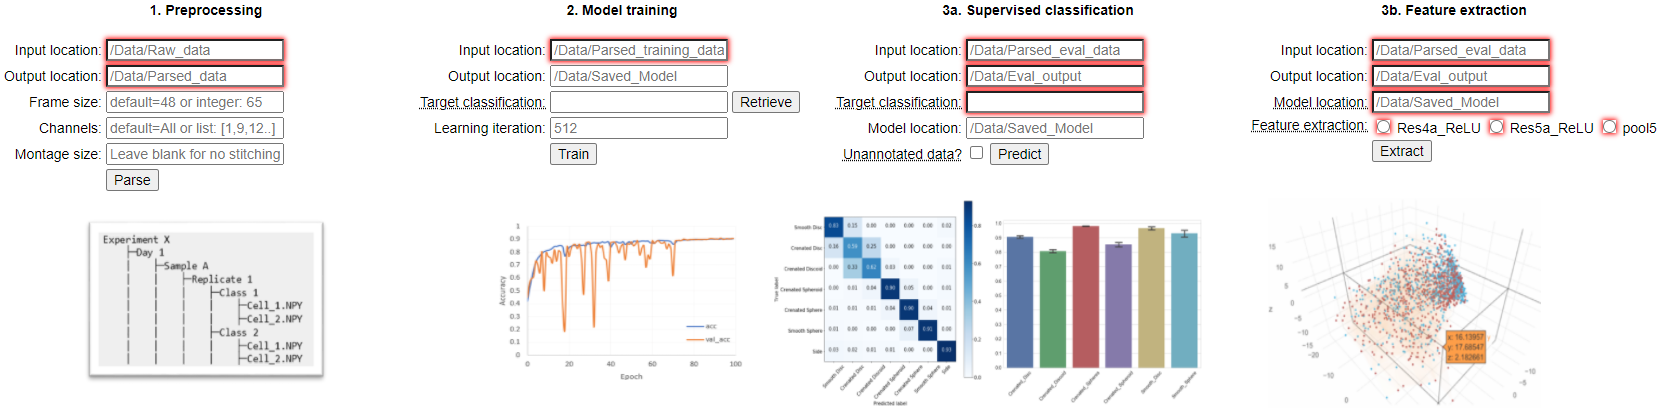
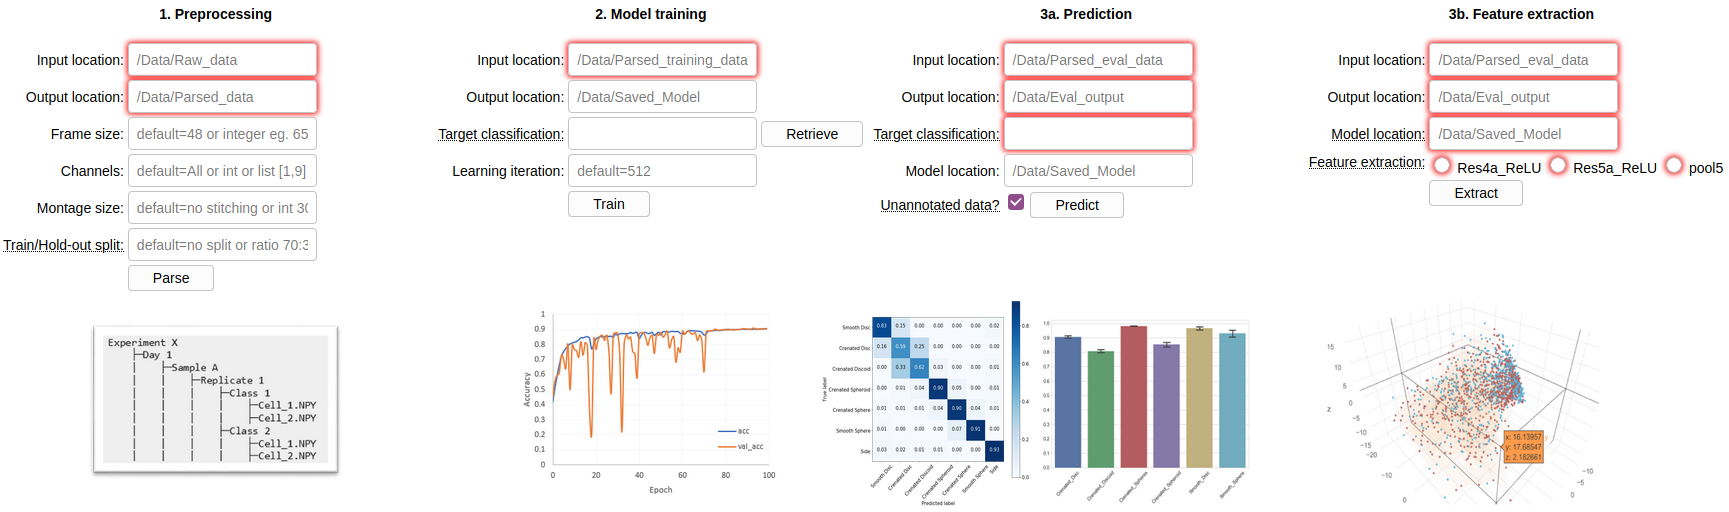
Add Train_Hold-out split in 1.Preprocessing. Add Unannotated data tick box for 3a.Prediction.

diff --git a/templates/Deepometry_GUI.html b/templates/Deepometry_GUI.html
@@ -85,7 +85,7 @@
           </td>
 
           <td align="center">
-            <p><strong>3a. Supervised classification</strong></p>
+            <p><strong>3a. Prediction</strong></p>
           </td>
 
           <td align="center" >
@@ -109,15 +109,19 @@
                 </tr>                 
                 <tr>
                   <td align="right"><label for="frame">Frame size:</label></td>
-                  <td align="left"><abbr title="Set the width/height size of the (width × height × channel) tensor. If user sets a size bigger than the original images, each of the images will be padded with its own background. If user sets a size smaller than the original images, each of the images will be cropped toward its center." aria-label="required"><input type="text" class="form-control" id="frame" name="frame" placeholder="default=48 or integer: 65" pattern="[0-9]*" /></abbr></td>
+                  <td align="left"><abbr title="Set the width/height size of the (width × height × channel) tensor. If user sets a size bigger than the original images, each of the images will be padded with its own background. If user sets a size smaller than the original images, each of the images will be cropped toward its center." aria-label="required"><input type="text" class="form-control" id="frame" name="frame" placeholder="default=48 or integer eg. 65" pattern="[0-9]*" /></abbr></td>
                 </tr>
                 <tr>
                   <td align="right"><label for="channels">Channels:</label></td>
-                  <td align="left"><abbr title="Choose the channel(s) imaged by the instrument (e.g. image flow cytometer, fluorescent microscopy). If a single channel is desired, input an integer without bracket. If multiple channels are desired, use square brackets [ ], e.g. [0,6,3,4]." aria-label="required"><input type="text" class="form-control" id="channels" name="channels" placeholder="default=All or list: [1,9,12..]" /></abbr></td>
+                  <td align="left"><abbr title="Choose the channel(s) imaged by the instrument (e.g. image flow cytometer, fluorescent microscopy). If a single channel is desired, input an integer without bracket. If multiple channels are desired, use square brackets [ ], eg. [0,6,3,4]." aria-label="required"><input type="text" class="form-control" id="channels" name="channels" placeholder="default=All or int or list [1,9]" /></abbr></td>
                 </tr>
                 <tr>
                   <td align="right"><label for="montage_size">Montage size:</label></td>
-                  <td align="left"><abbr title="(Optional) Use this option to generate per-channel tiled (stitched) montages"><input type="text" class="form-control" id="montage_size" name="montage_size" placeholder="Leave blank for no stitching" pattern="[0-9]*" /></abbr></td>
+                  <td align="left"><abbr title="(Optional) Use this option to generate per-channel tiled (stitched) montages"><input type="text" class="form-control" id="montage_size" name="montage_size" placeholder="default=no stitching or int 30" pattern="[0-9]*" /></abbr></td>
+                </tr>
+                <tr>
+                  <td align="right"><abbr title="(Optional) Input a ratio to split the parsed data into Training and Hold-out Cross-Validation subsets. Data will be randomly shuffled before splitting. Training set can be used in 'Step 2. Model Training', and Hold-out set can be used in 'Step 3a. Prediction' to evaluate the model performance."><label for="montage_size">Train/Hold-out split:</label></abbr></td>
+                  <td align="left"><abbr title="(Optional) Input a ratio to split the parsed data into Training and Hold-out Cross-Validation subsets."><input type="text" class="form-control" id="train_test_split" name="train_test_split" placeholder="default=no split or ratio 70:30" pattern="[0-9:]*" /></abbr></td>
                 </tr>
                 <tr>
                   <td>&nbsp;</td>
@@ -144,7 +148,7 @@
                     <abbr title="Target categories to train the classifier, e.g. choose 'Samples' to instruct the model to learn to categorize Sample A, Sample B, Sample C; choose 'Classes' to train the model to distinguish 'Class Control_cells', 'Class Treated_cells' etc..." aria-label="required">Target classification:</abbr>
                   </td>
                   <td align="left">
-                    <abbr title="If this drop-down menu appears empty, retrieve the list of possible targets by specifying input location"><input type="text" id="class_option" name="class_option" list="l1" ></abbr>
+                    <abbr title="If this dropdown menu appears empty, retrieve the list of possible targets by specifying input location"><input type="text" id="class_option" name="class_option" list="l1" ></abbr>
                     <datalist id="l1">
                       {% for line in possible_targets %}
                       <option>
@@ -157,7 +161,7 @@
                 </tr> 
                 <tr>
                   <td align="right"><label for="epochs">Learning iteration:</label></td>
-                  <td align="left"><abbr title="The number of epochs for a deep learning training session. By default it is set to 512, which might take several days (depends on the size of the training materials and available hardware, especially GPUs)"><input type="epochs" class="form-control" id="epochs" name="epochs" placeholder="512" /></abbr></td>
+                  <td align="left"><abbr title="The number of epochs for a deep learning training session. By default it is set to 512, which might take several days (depends on the size of the training materials and available hardware, especially GPUs)"><input type="epochs" class="form-control" id="epochs" name="epochs" placeholder="default=512" /></abbr></td>
                 </tr>           
                 <tr>
                   <td>&nbsp;</td>

diff --git a/Deepometry_GUI.py b/Deepometry_GUI.py
@@ -369,10 +369,11 @@ class extract_essential(Form):
         if parse_essential(request.form).validate():                
         
             input_parse = request.form['input_parse']
-            output_parse = request.form['output_parse']
-            frame=request.form['frame']            
-            channels=request.form['channels']
-            montage_size=request.form['montage_size']
+            output_parse = request.form['output_parse']                
+            frame = request.form['frame']            
+            channels = request.form['channels']
+            montage_size = request.form['montage_size']
+            train_test_split = request.form['train_test_split']
 
             if frame=='':
                 frame = 48
@@ -384,9 +385,33 @@ class extract_essential(Form):
                 # print('No stitching')
                 montage_size = 0
 
-            parsing(input_parse, output_parse, frame, channels, montage_size)
+            if train_test_split !='':
+                output_parse_train = os.path.join(output_parse, 'Train')
+                output_parse_test = os.path.join(output_parse, 'Hold_out')
 
+                parsing(input_parse, output_parse_train, frame, channels, montage_size)
 
+                # Transform string train_test_split into a ratio eg. 0.2, 0.3
+                split_portion = [float(i) for i in re.split("[,_:/-]", train_test_split)]
+                train_test_split = split_portion[1]/sum(split_portion)
+
+                filelist = glob.glob(os.path.join(output_parse_train,'**','*.npy'), recursive=True)
+                split_index = int(len(filelist) * (1.0 - train_test_split))
+                indexes = numpy.random.permutation(len(filelist))
+
+                test_set = [filelist[index] for index in indexes[split_index:]]  
+
+                # Move some of the files from parsed location to 'hold_out' folder; the rest is for 'train'
+                for i in test_set:
+                    dest = os.path.dirname(i).replace(output_parse_train, output_parse_test)
+                    if not os.path.exists(dest):
+                        os.makedirs(dest)
+
+                    os.rename(i, os.path.join(dest, os.path.basename(i)) )
+                    
+            else:
+                parsing(input_parse, output_parse, frame, channels, montage_size)
+ 
         # Model training   
         elif train_essential(request.form).validate():
 

diff --git a/README.md b/README.md
@@ -22,9 +22,7 @@ Once the above dependencies are installed, clone this ``Deepometry`` repository 
     cd deepometry
     pip install .
 
-If you want to install ``deepometry`` in development mode, run:
 
-    pip install --editable .[development]
 
 
 **Use**
@@ -49,7 +47,11 @@ To display subcommand use and options:
 IPYNB
 ------
 
-- Use these [Jupyter notebooks](https://github.com/broadinstitute/deepometry/tree/IPYNB)
+Switch to [IPYNB](https://github.com/broadinstitute/deepometry/tree/IPYNB) branch:
+
+    git checkout IPYNB
+
+Use these [Jupyter notebooks](https://github.com/broadinstitute/deepometry/tree/IPYNB).
 
 GUI (recommended)
 ------
@@ -72,22 +74,12 @@ Open a web-browser, navigate to **http://localhost:5000/** or **http://127.0.0.1
 Transform single-cell image data from .TIF, .CIF (gated populations exported from [IDEAS software](https://www.luminexcorp.com/imaging-flow-cytometry/)) to Numpy arrays (.NPY).
 
 Essential user inputs:
+- *Input location*: choose the folder that contains original image inputs. **Note**: it is highly recommended to tag and structure the input folder into hierarchical sub-folders with metadata prefixes such as *Experiment ...*, *Day ...*, *Sample ...*, *Replicate ...* , *Class ...*
+- *Output location*: location to store the parsed numpy arrays. Sub-folders will be automatically created to mirror input folder structure.
 - *Frame size*: set the width/height size of the (width × height × channel) tensor. If user sets a size bigger than the original images, each of the images will be padded with its own background. If user sets a size smaller than the original images, each of the images will be cropped toward its center.
 - *Channels*: choose the channel(s) imaged by the instrument (e.g. image flow cytometer, fluorescent microscopy). Use square brackets [ ] for multiple channels, e.g. [0,6,3,4]. If a single channel is desired, input an integer **without** bracket.
-- *Input location*: choose the folder that contains original image inputs. **Note**: it is recommended to structure the input folder into hierarchical sub-folders tagged with *Experiment ...*, *Day ...*, *Sample ...*, *Replicate ...* , *Class ...*
-
-<p class="aligncenter">
-<img class="center" src="https://github.com/broadinstitute/deepometry/raw/GUI/static/input_folder_tree.png" width="250" />
-</p>
-<style>
-.aligncenter {
-    text-align: center;
-}
-</style>
-
-- *Output location*: location to store the parsed numpy arrays. Sub-folders will be automatically created to mirror input folder structure.
-
 - *Montage size* (optional): use this option to generate per-channel tiled (stitched) montages, which can be efficiently used for [CellProfiler](http://cellprofiler.org/imagingflowcytometry/). Leave blank for no stitching.
+- *Train/Hold-out split* (optional): Input a ratio to split the parsed data into Training and Hold-out Cross-Validation subsets. Data will be randomly shuffled before splitting into subfolders "Train", "Hold-out" respectively. Training set can be used in "Step 2. Model Training", and Hold-out set can be used in "Step 3a. Prediction" to evaluate the model performance. Leave blank for no splitting.
 
 **<h3>2. Model training</h3>**
 
@@ -96,19 +88,20 @@ Train a ResNet model using Tensorflow backend.
 Essential user inputs:
 - *Input location*: choose the folder that contains parsed numpy arrays (from step 1).
 - *Output location*: location to store the trained model.
-- *Target classification*: choose the target categories to train the classifier, e.g. choose "Samples" to instruct the model to learn to categorize Sample A, Sample B, Sample C; choose "Classes" to train the model to distinguish "Class Control_cells", "Class Treated_cells" etc...
+- *Target classification*: choose the target categories to train the classifier, e.g. choose "Samples" to instruct the model to learn to categorize Sample A, Sample B, Sample C; choose "Classes" to train the model to distinguish "Class Control_cells", "Class Treated_cells" etc. If this dropdown menu appears empty, retrieve the list of possible targets by specifying input location.
 - *Learning iteration*: the number of *epochs* for a deep learning training session. By default it is set to 512, which might take several days (depends on the size of the training materials and available hardware, especially GPUs).
 - More (hyper)parameters for model training can be set at [model.fit](https://github.com/broadinstitute/deepometry/blob/6f41345f4ddff1cdb2acdfba427274ee03e865f1/deepometry/model.py#L106).
 
-**<h3>3a. Supervised classification</h3>**
+**<h3>3a. Prediction</h3>**
 
 Evaluate a trained model using annotated data, or predict labels on unknown/unannotated data.
 
 Essential user inputs:
 - *Input location*: choose the folder that contains parsed numpy arrays (from step 1).
 - *Output location*: location to store the evaluation outcomes.
-- *Target classification*: choose the target categories to test the classifier. It is crucial to retrieve the list of possible classficiation targets from **the model training session** to ensure the correct reconstruction of categorization, since the training materials should contain all the categories the model has been exposed to. E.g. there could be a situation that one or some categories are missing in a testing dataset.
+- *Target classification*: choose the target categories to test the classifier. If this drop-down menu appears empty, retrieve information from **Training input location**. It is crucial to retrieve the list of possible classficiation targets from **the model training session** to ensure the correct reconstruction of categorization, since the training materials should contain all the categories the model has been exposed to. E.g. there could be a situation that one or some categories are missing in a testing dataset.
 - *Model location* (optional): location of the saved model. Input either a folder location or an exact .h5 or .hdf5 file. If the provided folder location contains more than one model, the latest .h5 or .hdf5 will be loaded. If no folder location is provided, the checkpoint.hdf5 (in deepometry/data/) will be used.
+- *Unannotated data?*: Tick this box to perform label prediction on unknown (unannotated) test data
 
 **<h3>3b. Feature extraction</h3>**
 
@@ -117,9 +110,16 @@ Use a trained model to extract deep learning feature embeddings of unclassified 
 Essential user inputs:
 - *Input location*: choose the folder that contains parsed numpy arrays (from step 1).
 - *Output location*: location to store the extracted features and associated metadata.
-- *Target classification*: choose the target categories to predict.
-- *Model location* (**required**): location of the saved model. Input either a folder location or an exact .h5 or .hdf5 file. If the provided folder location contains more than one model, the latest .h5 or .hdf5 will be loaded. *Note*: it is **critical** that the model name contains the numeric identifier of how many categories the model was trained to classify. Please check whether such a file exists after model training, eg. "model_NNN_7_catogories.h5"
+- *Model location* (**required**): location of the saved model. Input either a folder location or an exact .h5 or .hdf5 file. If the provided folder location contains more than one model, the latest .h5 or .hdf5 will be loaded. *Note*: it is **critical** that the model name contains the numeric identifier of how many categories the model was trained to classify. Please check whether such a file exists after model training, eg. "model_7-class_categories.h5".
+- *Feature extraction*: use Res4a_ReLU, Res5a_ReLU or pool5 layer of the ResNet50 architecture as feature extractor. In general, the deeper the layer is, the more specified the features are captured, with regard to the assigned tasks. For example, if the task and the ultimate goal are both to distinguish different phenotypes of the cells, pool5 layer will more likely capture morphological features that are specific signatures of the phenotypes. In another example, if the task was to classify the date of the experiment, but the actual biological question was to group cells into clusters of morphological similarity, then users would want to use Res4a_ReLU and Res5a_ReLU to preserve the generic features of the cells.
 
 Once feature extraction is done, the output files, i.e. features_extracted_by_pool5.txt, metadata.tsv can be uploaded to http://projector.tensorflow.org for 2D/3D PCA, t-SNE, and UMAP visualization of deep learning embeddings. Example:
 
 [![Youtube 3D t-SNE](static/embed.png)](https://www.youtube.com/watch?v=HZZUDobELJM "Visualization of deep learning embeddings")
+
+
+**<h2>Publications</h2>**
+
+Doan M, Sebastian JA, Caicedo JC, et al. [Objective assessment of stored blood quality by deep learning](https://www.pnas.org/content/117/35/21381). Proc Natl Acad Sci U S A. 2020;117(35):21381-21390. doi:10.1073/pnas.2001227117
+
+Doan M, Case M, Masic D, et al. [Label-Free Leukemia Monitoring by Computer Vision](https://pubmed.ncbi.nlm.nih.gov/32091180/). Cytometry A. 2020;97(4):407-414. doi:10.1002/cyto.a.23987

diff --git a/CONTRIBUTORS.md b/CONTRIBUTORS.md
@@ -1,9 +1,9 @@
 # Contributors
 
-Deep learning workflow for image classification with imaging flow cytometry data initially developed by [Minh Doan](https://github.com/minh-doan/).
+Deep learning-based image classification and featurization for imaging cytometry, initially developed by [Minh Doan](https://github.com/minh-doan/).
 
 ## Additional contributors
 - [Claire McQuin](https://github.com/mcquin)
-- [Claire Barnes](https://github.com/CMBarnes)
+- [Claire Barnes](https://github.com/ClaireBarnes197)
 - [Allen Goodman](https://github.com/0x00b1/)
 - [Juan Caicedo](https://github.com/jccaicedo)
